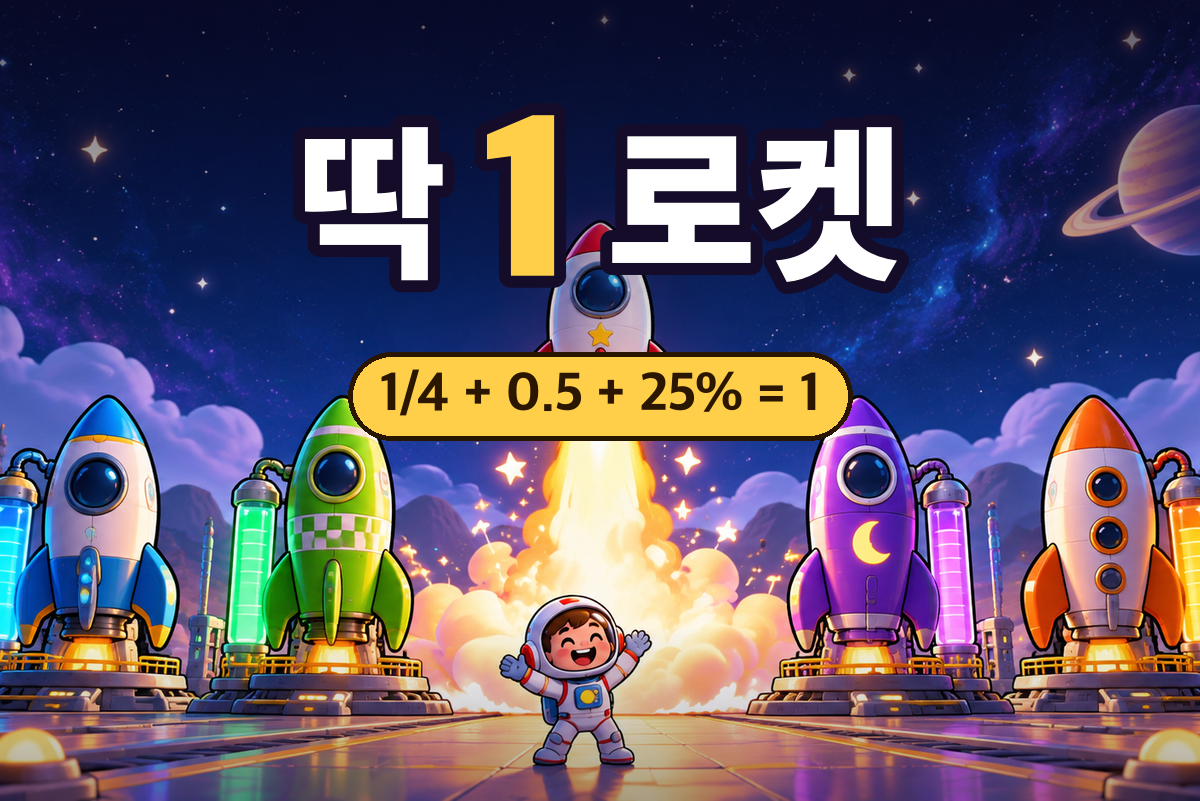
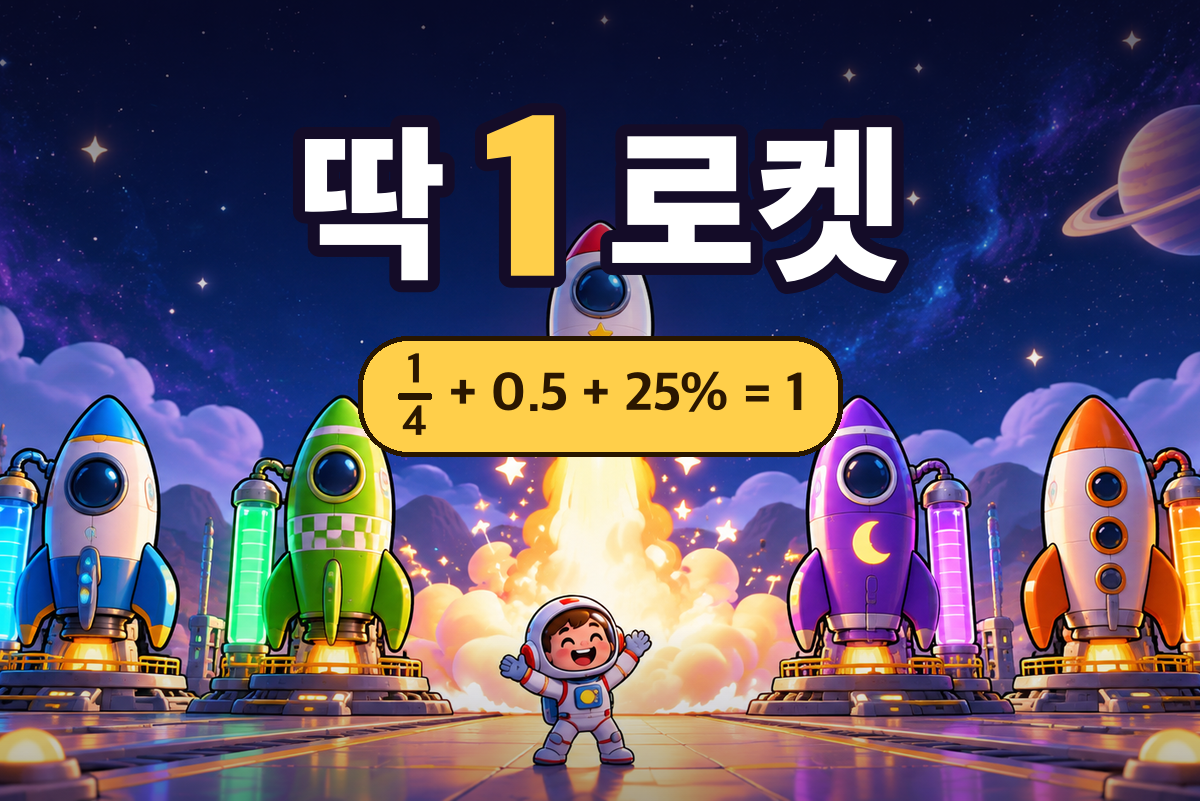
fix(thumb): 썸네일 식의 분수를 위아래로 쌓기(빗금 1/4 금지) + 빗금이면 빌드 거부
Claude-Session: https://claude.ai/code/session_01AF1GFCfmkdeA4pBn8MkY72

Changed region(s): [[0.2775, 0.4057, 0.7092, 0.593]]

diff --git a/tools/thumb-ttak1.py b/tools/thumb-ttak1.py
@@ -34,6 +34,14 @@ def outlined(d, xy, text, f, fill, stroke=(20, 12, 40), sw=10, anchor='mm'):
     d.text(xy, text, font=f, fill=fill, stroke_width=sw, stroke_fill=stroke, anchor=anchor)
 
 
+def no_slash(parts):
+    # 🔒 썸네일 글자에 «숫자/숫자» 빗금 분수가 들어가면 만들지 않는다(게임 화면 qa-play 게이트와 같은 규칙)
+    import re
+    for p in parts:
+        if isinstance(p, str) and re.search(r'\d+\s*/\s*\d+', p):
+            raise SystemExit(f'❌ 빗금 분수 금지: «{p}» — ("frac", 분자, 분모) 로 쌓아 그린다')
+
+
 def main():
     os.makedirs(OUT, exist_ok=True)
     art = Image.open(find_keyart()).convert('RGB')
@@ -65,12 +73,31 @@ def main():
     for (t, f, c), w in zip(parts, widths):
         outlined(d, (x + w / 2, ty), t, f, c, sw=12)
         x += w + gap
-    # 부제: 식 한 줄 — 무엇을 하는 게임인지 3m 밖에서 읽히게
+    # 부제: 식 한 줄 — 무엇을 하는 게임인지 3m 밖에서 읽히게. 분수는 위아래로 쌓는다(빗금 «1/4» 금지 — 사용자 지시 2026-10-12)
     f_sub = font(54, 14)
-    sub = '1/4 + 0.5 + 25% = 1'
-    bw = d.textbbox((0, 0), sub, font=f_sub)[2] + 64
-    d.rounded_rectangle([cx - bw / 2, 352, cx + bw / 2, 440], radius=46, fill=(255, 207, 74, 235), outline=(40, 22, 0), width=5)
-    d.text((cx, 396), sub, font=f_sub, fill=(43, 23, 0), anchor='mm')
+    f_fr = font(42, 14)
+    SUB = [('frac', '1', '4'), ' + 0.5 + 25% = 1']
+    no_slash(SUB)
+    def piece_w(p):
+        if isinstance(p, tuple): return max(d.textlength(p[1], font=f_fr), d.textlength(p[2], font=f_fr)) + 16
+        return d.textlength(p, font=f_sub)
+    tw = sum(piece_w(p) for p in SUB)
+    bw = tw + 72
+    top, bot = 336, 456
+    my = (top + bot) / 2
+    d.rounded_rectangle([cx - bw / 2, top, cx + bw / 2, bot], radius=50, fill=(255, 207, 74, 235), outline=(40, 22, 0), width=5)
+    ink = (43, 23, 0)
+    x = cx - tw / 2
+    for p in SUB:
+        w = piece_w(p)
+        if isinstance(p, tuple):
+            fx = x + w / 2
+            d.text((fx, my - 25), p[1], font=f_fr, fill=ink, anchor='mm')
+            d.text((fx, my + 27), p[2], font=f_fr, fill=ink, anchor='mm')
+            d.rounded_rectangle([x + 4, my - 3, x + w - 4, my + 3], radius=2, fill=ink)
+        else:
+            d.text((x, my), p, font=f_sub, fill=ink, anchor='lm')
+        x += w
     # 안전지대 단언 — 제목·부제가 가운데 정사각(x 200~1000) 안에 있어야 1:1 크롭에서 안 잘린다
     assert total <= 780 and bw <= 760, f'안전지대 밖: 제목 {total:.0f}px · 부제 {bw:.0f}px'
     rgb = img.convert('RGB')
